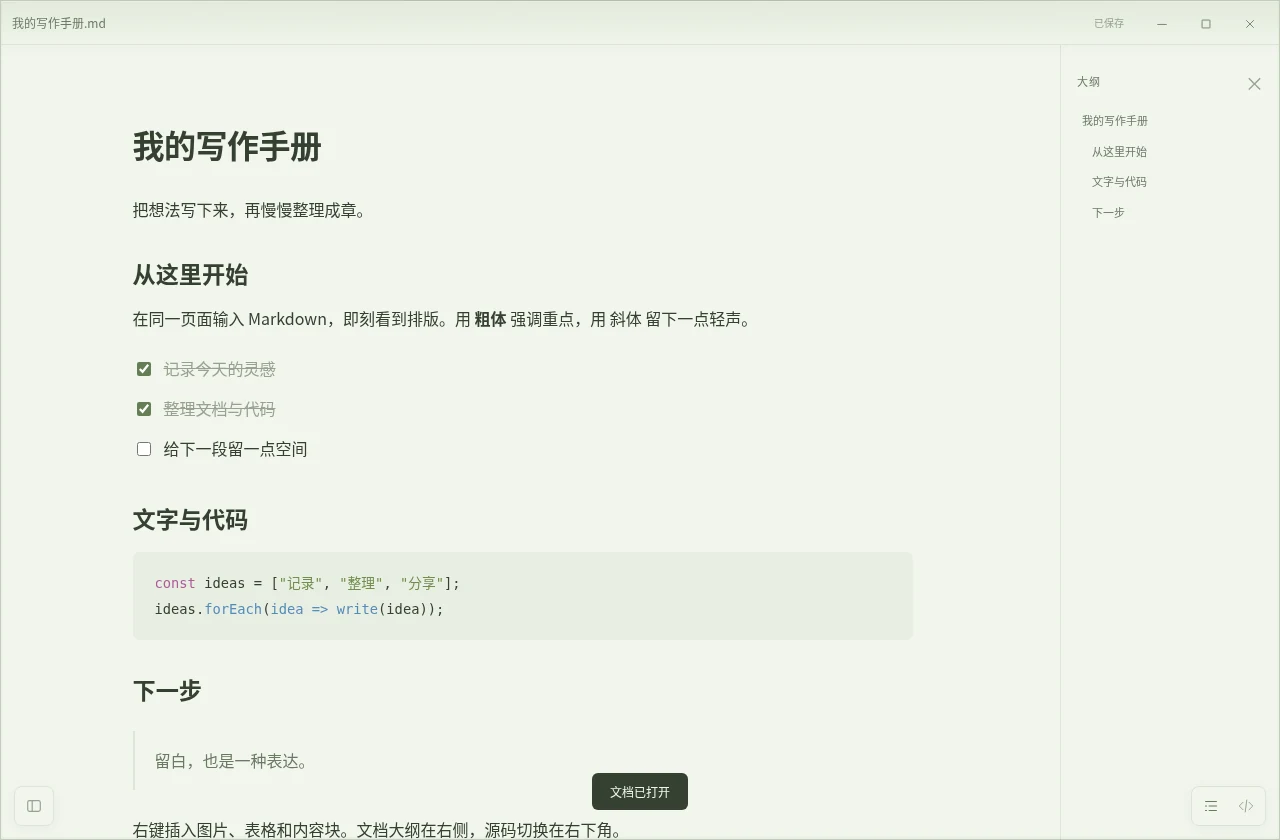
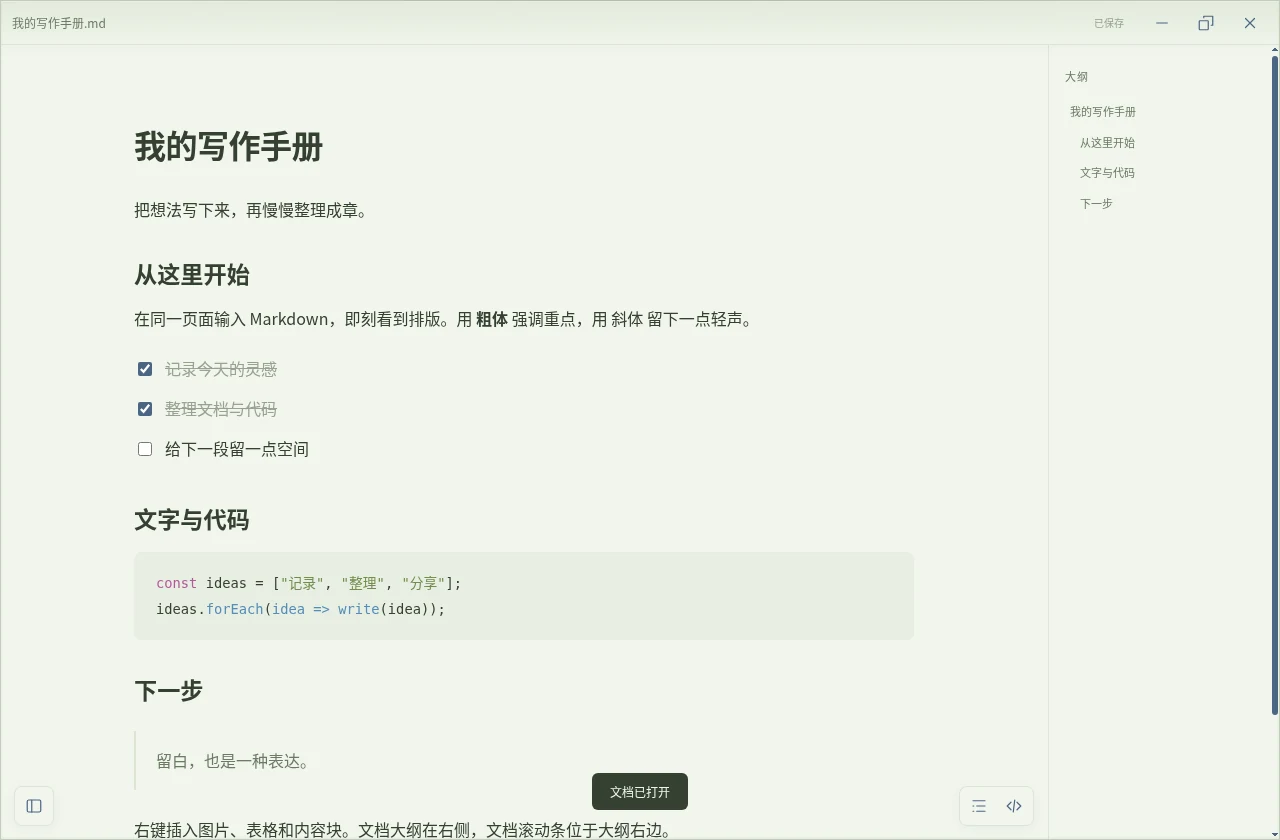
Update Windows 0.10.0 downloads and blue workspace previews

diff --git a/index.html b/index.html
@@ -54,11 +54,11 @@
 
   <main id="main">
     <section class="hero container" aria-labelledby="hero-title">
-      <a class="release-pill" href="#release"><span class="release-dot" aria-hidden="true"></span><span>0.9.0 已发布</span><span class="pill-divider"></span><span>固定标题，顺畅切换</span><span aria-hidden="true">↗</span></a>
+      <a class="release-pill" href="#release"><span class="release-dot" aria-hidden="true"></span><span>0.10.0 已发布</span><span class="pill-divider"></span><span>固定标题，顺畅切换</span><span aria-hidden="true">↗</span></a>
       <h1 id="hero-title">给想法，<span class="hero-accent">一张纸。<svg viewBox="0 0 360 17" aria-hidden="true"><path d="M4 11C88 2 206 1 354 8M82 15c97-7 176-9 250-4"/></svg></span></h1>
       <p class="hero-description">一个轻巧、安静的 Markdown 编辑器。<br>边写边呈现，让注意力回到文字本身。</p>
       <div class="hero-actions">
-        <a class="button button-dark" href="https://github.com/Linkyyy/tekaku/raw/refs/heads/downloads/windows-v0.9.0/Tekaku-0.9.0-windows-x64.zip" data-download><svg aria-hidden="true" class="icon"><use href="#i-windows"/></svg>免费下载 Windows 版<svg class="icon button-arrow"><use href="#i-down"/></svg></a>
+        <a class="button button-dark" href="https://github.com/Linkyyy/tekaku/raw/refs/heads/downloads/windows-v0.10.0/Tekaku-0.10.0-windows-x64.zip" data-download><svg aria-hidden="true" class="icon"><use href="#i-windows"/></svg>免费下载 Windows 版<svg class="icon button-arrow"><use href="#i-down"/></svg></a>
         <a class="button button-light" data-android-download href="https://github.com/Linkyyy/tekaku/raw/refs/heads/downloads/android-v0.1.0/Tekaku-0.1.0-android.apk">下载 Android APK <span aria-hidden="true">↓</span></a>
       </div>
       <p class="download-meta">Windows 10 / 11 x64 · Android 8.0+ · 文档留在本机</p>
@@ -152,19 +152,19 @@
         <details><summary>文件和图片保存在哪里？<svg aria-hidden="true" class="icon"><use href="#i-plus"/></svg></summary><div class="faq-answer"><p>Windows 的 Markdown 文件保存在你选择的位置，新插入图片在保存时写入同目录的「文档名.assets」文件夹。移动或分享文档时，请一起带上这个文件夹。Windows 草稿和设置保存在 %APPDATA%\Tekaku。Android 图片内嵌于 Markdown，草稿位于应用私有目录。草稿不能代替保存原文件。</p></div></details>
         <details><summary>可以完全离线使用吗？<svg aria-hidden="true" class="icon"><use href="#i-plus"/></svg></summary><div class="faq-answer"><p>安装好系统 WebView2 后，编辑、保存、本地图片和 HTML 导出均可离线使用，无需登录。手书不会上传文档。插入网络图片或主动打开网页链接时，会访问对应的网络地址。</p></div></details>
         <details><summary>支持所有 Markdown 扩展吗？<svg aria-hidden="true" class="icon"><use href="#i-plus"/></svg></summary><div class="faq-answer"><p>支持标题、列表、待办、引用、链接、图片、GFM 表格、文字高亮和代码块等常用内容。暂未提供公式排版、Mermaid 渲染、脚注及 YAML front matter 专用编辑。导入导出会规范化 Markdown，复杂文档建议先另存为。Windows 文档/图片上限分别为 8/5 MiB；Android 分别为 2/1 MiB。</p></div></details>
-        <details><summary>为什么提示「下载不常见」或「未知发布者」？<svg aria-hidden="true" class="icon"><use href="#i-plus"/></svg></summary><div class="faq-answer"><p>当前 EXE 未签名，下载信誉也需要积累，因此浏览器或 Windows 可能显示这类提示；它不等同于已检出病毒。0.9.0 已完成 ClamAV 扫描并未检出，但没有 Windows Defender 实机检测结论。可查看 <a href="https://github.com/Linkyyy/tekaku/blob/downloads/windows-v0.9.0/RELEASE-CHECK.md" target="_blank" rel="noopener noreferrer">安全检查记录</a>，并核对下载哈希。</p></div></details>
+        <details><summary>为什么提示「下载不常见」或「未知发布者」？<svg aria-hidden="true" class="icon"><use href="#i-plus"/></svg></summary><div class="faq-answer"><p>当前 EXE 未签名，下载信誉也需要积累，因此浏览器或 Windows 可能显示这类提示；它不等同于已检出病毒。0.10.0 已完成 ClamAV 扫描并未检出，但没有 Windows Defender 实机检测结论。可查看 <a href="https://github.com/Linkyyy/tekaku/blob/downloads/windows-v0.10.0/RELEASE-CHECK.md" target="_blank" rel="noopener noreferrer">安全检查记录</a>，并核对下载哈希。</p></div></details>
       </div>
     </section>
 
     <section class="download-section container" id="download" aria-labelledby="download-title">
       <div class="download-panel">
-        <div class="download-copy"><p class="eyebrow"><span></span> LESS FRICTION, MORE WORDS</p><h2 id="download-title">下一句话，<br>从这里开始。</h2><p>把好工具留在手边，把好想法留在纸上。</p><a class="button button-paper" href="https://github.com/Linkyyy/tekaku/raw/refs/heads/downloads/windows-v0.9.0/Tekaku-0.9.0-windows-x64.zip" data-download><svg aria-hidden="true" class="icon"><use href="#i-windows"/></svg>下载手书 Windows 版<svg class="icon button-arrow"><use href="#i-down"/></svg></a><span class="download-panel-meta">v0.9.0 · Windows 10 / 11 x64 · ZIP 约 1.9 MB</span></div>
+        <div class="download-copy"><p class="eyebrow"><span></span> LESS FRICTION, MORE WORDS</p><h2 id="download-title">下一句话，<br>从这里开始。</h2><p>把好工具留在手边，把好想法留在纸上。</p><a class="button button-paper" href="https://github.com/Linkyyy/tekaku/raw/refs/heads/downloads/windows-v0.10.0/Tekaku-0.10.0-windows-x64.zip" data-download><svg aria-hidden="true" class="icon"><use href="#i-windows"/></svg>下载手书 Windows 版<svg class="icon button-arrow"><use href="#i-down"/></svg></a><span class="download-panel-meta">v0.10.0 · Windows 10 / 11 x64 · ZIP 约 1.9 MB</span></div>
         <div class="download-art" aria-hidden="true"><div class="art-page page-back"></div><div class="art-page page-front"><span class="art-seal">手</span><span class="art-rule art-rule-title"></span><span class="art-rule"></span><span class="art-rule"></span><span class="art-rule art-rule-short"></span><span class="art-asterisk"><svg aria-hidden="true" class="icon"><use href="#i-asterisk"/></svg></span><span class="art-page-footer">TEKAKU<span>01</span></span></div><span class="art-caption">JUST YOU & YOUR WORDS.</span></div>
       </div>
-      <div class="download-details"><p>依赖系统 WebView2 Runtime · 解压后双击运行 · 无需账号</p><details class="checksum-details"><summary>查看下载包 SHA-256 <span aria-hidden="true">＋</span></summary><div class="checksum-content"><code id="checksum">d15f50d53cb18590767824ec01f5ab2d205d70e9b1ec60d52f298f64268ab7a8</code><button id="copy-checksum" type="button">复制</button><span id="copy-status" class="sr-only" role="status"></span></div></details></div>
+      <div class="download-details"><p>依赖系统 WebView2 Runtime · 解压后双击运行 · 无需账号</p><details class="checksum-details"><summary>查看下载包 SHA-256 <span aria-hidden="true">＋</span></summary><div class="checksum-content"><code id="checksum">66320d641b0d9b42e4488136563465f35ee56f115d237f09b6c2ba4e52073008</code><button id="copy-checksum" type="button">复制</button><span id="copy-status" class="sr-only" role="status"></span></div></details></div>
     </section>
 
-    <section class="release-section container" id="release" aria-labelledby="release-title"><div><span class="release-dot" aria-hidden="true"></span><h2 id="release-title">最近更新</h2><span class="version-label">v0.9.0</span></div><p>优化 Markdown 输入指南；标题固定、内容独立滚动；左下角悬浮侧栏按钮与面板动画，源码预览切换保持同一编辑区域。</p><a href="https://github.com/Linkyyy/tekaku/tree/downloads/windows-v0.9.0" target="_blank" rel="noopener noreferrer">查看版本说明 <span aria-hidden="true">↗</span></a></section>
+    <section class="release-section container" id="release" aria-labelledby="release-title"><div><span class="release-dot" aria-hidden="true"></span><h2 id="release-title">最近更新</h2><span class="version-label">v0.10.0</span></div><p>文档滚动条移至大纲右侧；悬浮按钮跟随内容区，全屏保持可用；蓝色图标统一，面板动画默认开启，改进 Windows 原生边框缩放。</p><a href="https://github.com/Linkyyy/tekaku/tree/downloads/windows-v0.10.0" target="_blank" rel="noopener noreferrer">查看版本说明 <span aria-hidden="true">↗</span></a></section>
   </main>
 
   <footer class="site-footer container"><a class="brand" href="#" aria-label="返回手书首页"><span class="brand-seal" aria-hidden="true">手</span><span class="brand-name">手书<span class="brand-english">Tekaku</span></span></a><p>给文字一点空间。</p><div><a href="https://github.com/Linkyyy/tekaku/tree/gh-pages" target="_blank" rel="noopener noreferrer">官网源码 ↗</a><a href="https://github.com/Linkyyy/tekaku/issues" target="_blank" rel="noopener noreferrer">问题反馈 ↗</a><a href="#download">下载 ↓</a></div></footer>

diff --git a/README.md b/README.md
@@ -42,17 +42,17 @@ python3 -m http.server 8080
 
 ## 下载与维护
 
-- [Windows v0.9.0 便携包（约 1.9 MB）](https://github.com/Linkyyy/tekaku/raw/refs/heads/downloads/windows-v0.9.0/Tekaku-0.9.0-windows-x64.zip)
-- [版本说明](https://github.com/Linkyyy/tekaku/tree/downloads/windows-v0.9.0)
[1 lines of base64/hex data omitted]
+- [Windows v0.10.0 便携包（约 1.9 MB）](https://github.com/Linkyyy/tekaku/raw/refs/heads/downloads/windows-v0.10.0/Tekaku-0.10.0-windows-x64.zip)
+- [版本说明](https://github.com/Linkyyy/tekaku/tree/downloads/windows-v0.10.0)
[1 lines of base64/hex data omitted]
 
 新版本发布时，更新 `index.html` 中的版本号、下载链接、体积、最近更新内容和 SHA-256，以及本说明。替换皮肤截图时保留 `assets/editor-{white,paper,sage,night}.webp` 文件名。分享预览图使用 gh-pages 分支上的公开图片地址，不依赖 GitHub Pages 域名；确定正式域名后也可换成站点自身的绝对地址。
 
 桌面端使用系统 WebView2，支持 Windows 10 / 11 x64。1.9 MB 是 ZIP 体积，非内存占用；官网 FAQ 已注明依赖、图片附件移动方式、未签名和 Markdown 支持范围。
 
-## 0.9.0 安全检查
+## 0.10.0 安全检查
 
-用户反馈的“下载不常见”属于下载信誉提示。EXE 仍未签名，不能承诺提示消失。扫描和校验记录见 [安全检查说明](https://github.com/Linkyyy/tekaku/blob/downloads/windows-v0.9.0/SECURITY-CHECK.md)。[应用源码](https://github.com/Linkyyy/tekaku/tree/main)可复核。下载包应完整解压，保留 EXE 和 WebView2Loader.dll 在同一目录。
+用户反馈的“下载不常见”属于下载信誉提示。EXE 仍未签名，不能承诺提示消失。扫描和校验记录见 [安全检查说明](https://github.com/Linkyyy/tekaku/blob/downloads/windows-v0.10.0/SECURITY-CHECK.md)。[应用源码](https://github.com/Linkyyy/tekaku/tree/main)可复核。下载包应完整解压，保留 EXE 和 WebView2Loader.dll 在同一目录。
 
 ## Android 手机版
 
@@ -60,4 +60,4 @@ python3 -m http.server 8080
 
 Vercel 一键创建的独立仓库 `Linkyyy/tekaku-website` 以 main 为网站源；上游官网源为本仓库 gh-pages。发布时两者同步，网站无需 npm 构建。
 
-Windows 0.9.0：Markdown 输入指南分组对照、固定标题与内容独立滚动、左下角悬浮侧栏按钮、侧栏/大纲动画，以及保持同一编辑视口的源码/预览切换。Android APK 保持 0.1.0 不变。
+Windows 0.10.0：仅内容保留可见滚动条、滚动条位于大纲右侧、内容区悬浮按钮、可见宽度动画、蓝色图标与 Windows 原生边框缩放。Android APK 保持 0.1.0 不变。
